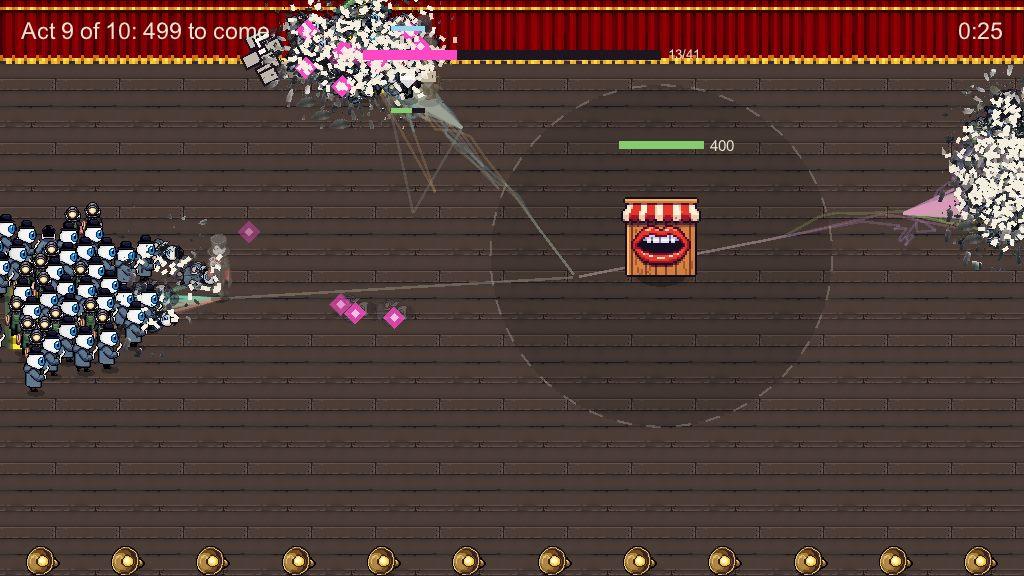
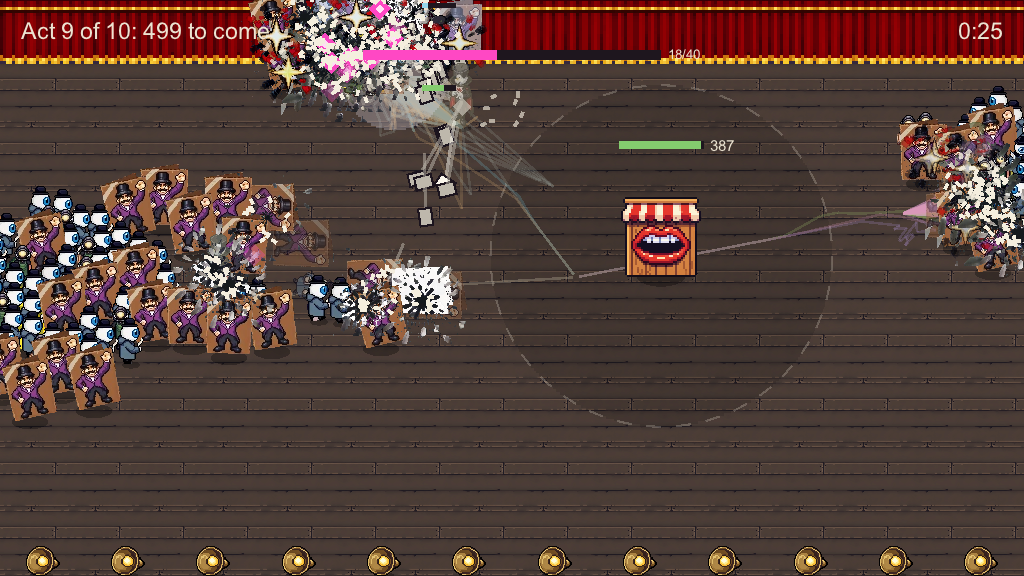
T29: the view: the rival's understudy has its figure, and a fallen body lies as the kind it was; the frames taken again, with one of rivals in the seventh act
Claude-Session: https://claude.ai/code/session_01V4qXWgB4bHFXePzLiSUbYT

diff --git a/src/Understudies.Game/UnderstudiesGame.cs b/src/Understudies.Game/UnderstudiesGame.cs
@@ -202,7 +202,8 @@ internal sealed partial class UnderstudiesGame : Microsoft.Xna.Framework.Game
         _pixel.SetData([Color.White]);
 
         // A walk is a sheet of three rows of three frames, a file pixel to a sprite pixel. The side view faces
-        // right. The stagehand has one walk, toward the viewer, and the box office is one picture as the tool
+        // right. The stagehand and the rival's understudy have one walk each, toward the viewer (a cut-out has no
+        // back and no side, so it is not mirrored), and the box office is one picture as the tool
         // returned it: twelve file pixels to one of its own, drawn six to a sprite pixel so that it is as wide as
         // its four units.
         _sheets[(int)Figure.Magician] =
@@ -210,6 +211,7 @@ internal sealed partial class UnderstudiesGame : Microsoft.Xna.Framework.Game
         _sheets[(int)Figure.Critic] =
             [ReadSheet("critic-down.png", 3), ReadSheet("critic-up.png", 3), ReadSheet("critic-side.png", 3)];
         _sheets[(int)Figure.Stagehand] = [ReadSheet("stagehand-down.png", 3)];
+        _sheets[(int)Figure.Rival] = [ReadSheet("rival-down.png", 3)];
         _sheets[(int)Figure.BoxOffice] = [ReadSheet("box-office.png", 1, block: 6f)];
 
         // The set (plan T07d). The doors are stills like the box office and drawn at its pixel size, a footlight at
@@ -523,9 +525,8 @@ internal sealed partial class UnderstudiesGame : Microsoft.Xna.Framework.Game
         foreach (var body in _juice.Bodies)
         {
             // A critic that fell lies where it fell and fades away, under the feet of whoever stands there.
-            // ponytail: a fallen stagehand lies there as a critic. A kill says where and not whose: when it says
-            // the kind too, the body is drawn as that kind.
-            DrawFigure(Figure.Critic, body.Position, white: body.White, fallen: true, opacity: body.Opacity);
+            // Whatever it was: the juice kept its kind from when it stood.
+            DrawFigure(FigureOf(body.Kind), body.Position, white: body.White, fallen: true, opacity: body.Opacity);
         }
 
         _spriteBatch.End();
@@ -586,9 +587,7 @@ internal sealed partial class UnderstudiesGame : Microsoft.Xna.Framework.Game
         foreach (Critic critic in _simulation.Critics)
         {
             Vector2 feet = Vector2.Lerp(critic.PreviousPosition, critic.Position, alpha);
-            // ponytail: the view knows the kinds by their places in enemyKinds, the critic first and the stagehand
-            // second. A third kind is drawn as a stagehand until it has a figure of its own.
-            Figure figure = critic.Kind == 0 ? Figure.Critic : Figure.Stagehand;
+            Figure figure = FigureOf(critic.Kind);
             // A critic that stands is at its work: it faces the box office.
             Vector2 step = critic.Position - critic.PreviousPosition;
             DrawFigure(
@@ -1003,6 +1002,17 @@ internal sealed partial class UnderstudiesGame : Microsoft.Xna.Framework.Game
         }
     }
 
+    /// <summary>The figure an enemy of a kind is drawn as.</summary>
+    // ponytail: the view knows the kinds by their places in enemyKinds, the critic first, the stagehand second and
+    // the rival's understudy third. A fourth kind is drawn as a stagehand until it has a figure of its own; the
+    // kinds need names to be looked up by when the list is reordered.
+    private static Figure FigureOf(int kind) => kind switch
+    {
+        0 => Figure.Critic,
+        2 => Figure.Rival,
+        _ => Figure.Stagehand,
+    };
+
     /// <summary>How long a sprite pixel is in world units in the frame being drawn.</summary>
     private float SpritePixel => MathF.Max(1f, MathF.Round(_scale / SpritePixelsPerUnit)) / _scale;
 
@@ -1171,6 +1181,7 @@ internal sealed partial class UnderstudiesGame : Microsoft.Xna.Framework.Game
         Magician,
         Critic,
         Stagehand,
+        Rival,
         BoxOffice,
         ShutDoor,
         OpenDoor,

diff --git a/src/Understudies.Game/Juice.cs b/src/Understudies.Game/Juice.cs
@@ -89,7 +89,11 @@ internal sealed class Juice(Random random)
 
     // How many self cards each understudy had when it was last looked at, in the order of their acts.
     private readonly List<int> _understudyCards = [];
-    private readonly List<(Vector2 Position, float FellAt)> _bodies = [];
+
+    // The kind of every critic on the stage, by its id, as it was last fed: a kill names its critic, which is
+    // gone from the stage by then, and its body is drawn as what it was. A critic that falls is taken out.
+    private readonly Dictionary<int, int> _criticKinds = [];
+    private readonly List<(Vector2 Position, int Kind, float FellAt)> _bodies = [];
     private readonly List<Scrap> _scraps = [];
     private readonly List<(Effect Kind, Vector2 Middle, float At)> _effects = [];
 
@@ -115,11 +119,11 @@ internal sealed class Juice(Random random)
     public float CriticWhite(int id) => _criticFlashedAt.TryGetValue(id, out float flashedAt) ? White(flashedAt) : 0f;
 
     /// <summary>
-    /// The critics that fell a moment ago: where each lies, how far to white it is drawn (the blow that felled it
-    /// flashes too), and how much of it is left to see.
+    /// The critics that fell a moment ago: where each lies, its kind by the kind's place in the tuning, how far to
+    /// white it is drawn (the blow that felled it flashes too), and how much of it is left to see.
     /// </summary>
-    public IEnumerable<(Vector2 Position, float White, float Opacity)> Bodies =>
-        _bodies.Select(body => (body.Position, White(body.FellAt), 1f - ((_now - body.FellAt) / BodyTime)));
+    public IEnumerable<(Vector2 Position, int Kind, float White, float Opacity)> Bodies =>
+        _bodies.Select(body => (body.Position, body.Kind, White(body.FellAt), 1f - ((_now - body.FellAt) / BodyTime)));
 
     /// <summary>The scraps in the air: the middle of each, how it is turned, and how much of it is left to see.</summary>
     public IEnumerable<(Vector2 Middle, float Turn, float Opacity)> Scraps => _scraps.Select(scrap =>
@@ -178,7 +182,11 @@ internal sealed class Juice(Random random)
                 // A fallen critic is a body, which flashes by the time it fell: its own flash is kept no longer.
                 case TickEventKind.Kill:
                     _criticFlashedAt.Remove(happened.CriticId);
-                    _bodies.Add((happened.Position, _now));
+
+                    // Every critic was on the stage when some earlier tick was fed, since it enters last in its
+                    // tick: one the juice never saw (fed a show under way) lies as the first kind.
+                    _criticKinds.Remove(happened.CriticId, out int kind);
+                    _bodies.Add((happened.Position, kind, _now));
                     Burst(happened.Position, KillScraps);
                     Show(Effect.KillBurst, happened.Position);
                     break;
@@ -204,6 +212,12 @@ internal sealed class Juice(Random random)
                     _trauma = MathF.Min(1f, _trauma + StrikeTrauma);
                     break;
             }
+        }
+
+        // After the events: who stands now is whose fall a later tick may report.
+        foreach (Critic critic in simulation.Critics)
+        {
+            _criticKinds[critic.Id] = critic.Kind;
         }
     }
 
